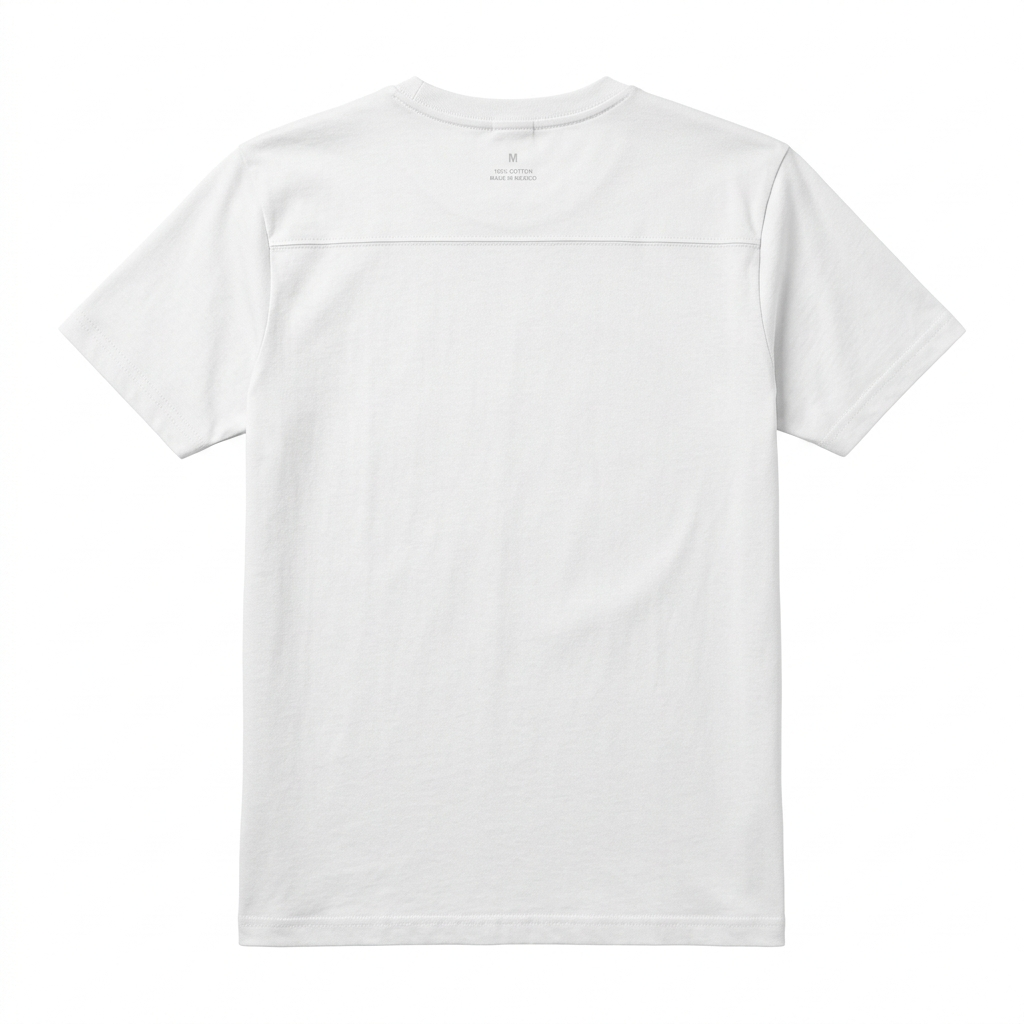
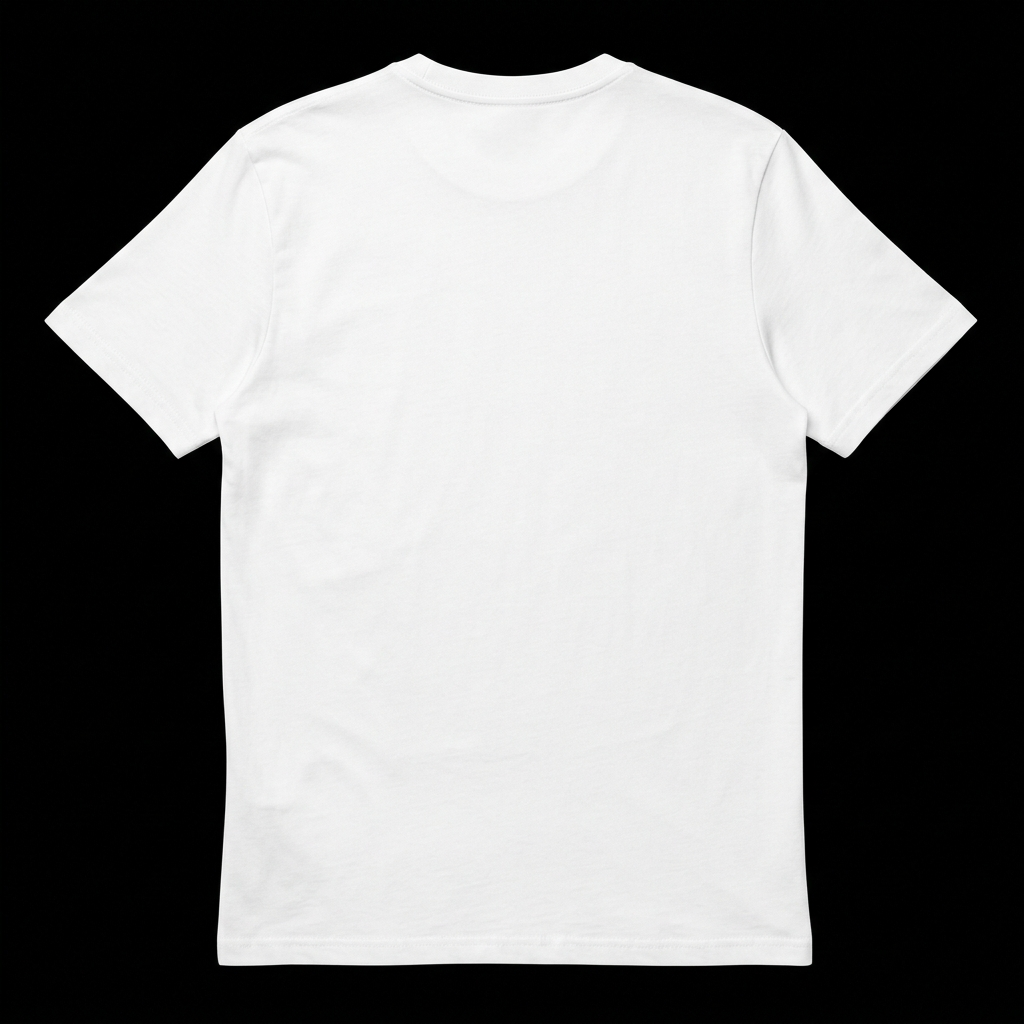
fix(configurator): solucion definitiva con segmentacion de alto contraste para coloreado 100% parejo y sin manchas

diff --git a/components/Configurator.tsx b/components/Configurator.tsx
@@ -140,7 +140,7 @@ export default function Configurator() {
     reader.readAsDataURL(file);
   };
 
-  // Renderizado dinámico en Canvas para coloreado fotorrealista de tela parejo y no saturado
+  // Renderizado dinámico en Canvas para coloreado fotorrealista 100% parejo y sin manchas
   useEffect(() => {
     const cvs = canvasRef.current;
     if (!cvs) return;
@@ -157,89 +157,57 @@ export default function Configurator() {
       cvs.height = img.naturalHeight;
       ctx.clearRect(0, 0, cvs.width, cvs.height);
 
-      // Dibujar imagen original base (blanca)
+      const w = cvs.width;
+      const h = cvs.height;
+
+      // Dibujar imagen original base
       ctx.drawImage(img, 0, 0);
 
-      // Si el color no es blanco, aplicar coloreado parejo y sin saturación excesiva
-      if (colorOption.rgb) {
-        const w = cvs.width;
-        const h = cvs.height;
-        const imgData = ctx.getImageData(0, 0, w, h);
-        const data = imgData.data;
-        const [tr, tg, tb] = colorOption.rgb;
+      const imgData = ctx.getImageData(0, 0, w, h);
+      const data = imgData.data;
+      const targetRGB = colorOption.rgb;
 
-        // 1. Detección precisa de fondo exterior mediante Flood Fill / BFS desde los bordes
-        const isBg = new Uint8Array(w * h);
-        const queue: number[] = [];
+      for (let i = 0; i < data.length; i += 4) {
+        const r = data[i];
+        const g = data[i + 1];
+        const b = data[i + 2];
 
-        const isWhiteBg = (idx: number) => {
-          const p = idx * 4;
-          return data[p] >= 243 && data[p + 1] >= 243 && data[p + 2] >= 243;
-        };
+        // Luminancia para separar fondo del cuerpo completo de la prenda
+        const L_raw = 0.299 * r + 0.587 * g + 0.114 * b;
 
-        // Encolar los bordes perimetrales de la imagen
-        for (let x = 0; x < w; x++) {
-          const topIdx = x;
-          const botIdx = (h - 1) * w + x;
-          if (isWhiteBg(topIdx) && !isBg[topIdx]) { isBg[topIdx] = 1; queue.push(topIdx); }
-          if (isWhiteBg(botIdx) && !isBg[botIdx]) { isBg[botIdx] = 1; queue.push(botIdx); }
-        }
-        for (let y = 0; y < h; y++) {
-          const leftIdx = y * w;
-          const rightIdx = y * w + (w - 1);
-          if (isWhiteBg(leftIdx) && !isBg[leftIdx]) { isBg[leftIdx] = 1; queue.push(leftIdx); }
-          if (isWhiteBg(rightIdx) && !isBg[rightIdx]) { isBg[rightIdx] = 1; queue.push(rightIdx); }
-        }
-
-        // BFS para expandir el fondo exterior
-        let head = 0;
-        while (head < queue.length) {
-          const curr = queue[head++];
-          const cx = curr % w;
-          const cy = Math.floor(curr / w);
-
-          if (cy > 0) {
-            const n = curr - w;
-            if (!isBg[n] && isWhiteBg(n)) { isBg[n] = 1; queue.push(n); }
+        if (L_raw < 28) {
+          // Fondo 100% limpio y transparente
+          data[i + 3] = 0;
+        } else {
+          // Suavizado en bordes externos (antialiasing)
+          if (L_raw < 55) {
+            data[i + 3] = Math.round(((L_raw - 28) / 27) * 255);
+          } else {
+            data[i + 3] = 255;
           }
-          if (cy < h - 1) {
-            const n = curr + w;
-            if (!isBg[n] && isWhiteBg(n)) { isBg[n] = 1; queue.push(n); }
-          }
-          if (cx > 0) {
-            const n = curr - 1;
-            if (!isBg[n] && isWhiteBg(n)) { isBg[n] = 1; queue.push(n); }
-          }
-          if (cx < w - 1) {
-            const n = curr + 1;
-            if (!isBg[n] && isWhiteBg(n)) { isBg[n] = 1; queue.push(n); }
+
+          // Luminancia normalizada del tejido textil (rescalado 28..255 a 0..1)
+          const normL = Math.max(0, Math.min(1, (L_raw - 28) / 227));
+
+          if (!targetRGB) {
+            // Blanco Clásico: textura blanca natural con sombras suaves y realistas
+            const whiteVal = Math.round(212 + 43 * normL);
+            data[i]     = whiteVal;
+            data[i + 1] = whiteVal;
+            data[i + 2] = whiteVal;
+          } else {
+            // Color corporativo: 100% parejo, sin manchas, sin sobre-saturación
+            const [tr, tg, tb] = targetRGB;
+            const tone = Math.pow(normL, 1.02);
+
+            data[i]     = Math.min(255, Math.max(0, Math.round(tr * tone)));
+            data[i + 1] = Math.min(255, Math.max(0, Math.round(tg * tone)));
+            data[i + 2] = Math.min(255, Math.max(0, Math.round(tb * tone)));
           }
         }
-
-        // 2. Colorear uniformemente el 100% de la prenda (incluyendo cuello, botones y pliegues)
-        for (let idx = 0; idx < w * h; idx++) {
-          if (isBg[idx]) continue; // Conservar fondo exterior limpio
-
-          const p = idx * 4;
-          const r = data[p];
-          const g = data[p + 1];
-          const b = data[p + 2];
-
-          // Luminancia percibida de la tela original (sombras y textura del tejido)
-          const L = (0.299 * r + 0.587 * g + 0.114 * b) / 255.0;
-
-          // Curva suave de luz textil (preserva sombras profundas y textura uniforme sin quemar brillos)
-          const normL = Math.pow(L, 1.05);
-
-          // Mezcla suave, uniforme y sin sobresaturación
-          data[p]     = Math.min(255, Math.max(0, Math.round(tr * normL)));
-          data[p + 1] = Math.min(255, Math.max(0, Math.round(tg * normL)));
-          data[p + 2] = Math.min(255, Math.max(0, Math.round(tb * normL)));
-        }
-
-        ctx.putImageData(imgData, 0, 0);
       }
 
+      ctx.putImageData(imgData, 0, 0);
       setIsProcessingCanvas(false);
     };
   }, [prenda, vista, colorOption]);
@@ -256,7 +224,9 @@ export default function Configurator() {
     const ctx = exportCvs.getContext('2d');
     if (!ctx) return;
 
-    // 1. Dibujar prenda coloreada
+    // 1. Fondo blanco de estudio y dibujo de la prenda coloreada
+    ctx.fillStyle = '#ffffff';
+    ctx.fillRect(0, 0, exportCvs.width, exportCvs.height);
     ctx.drawImage(cvs, 0, 0);
 
     // 2. Si hay logo, dibujarlo en la posición exacta
